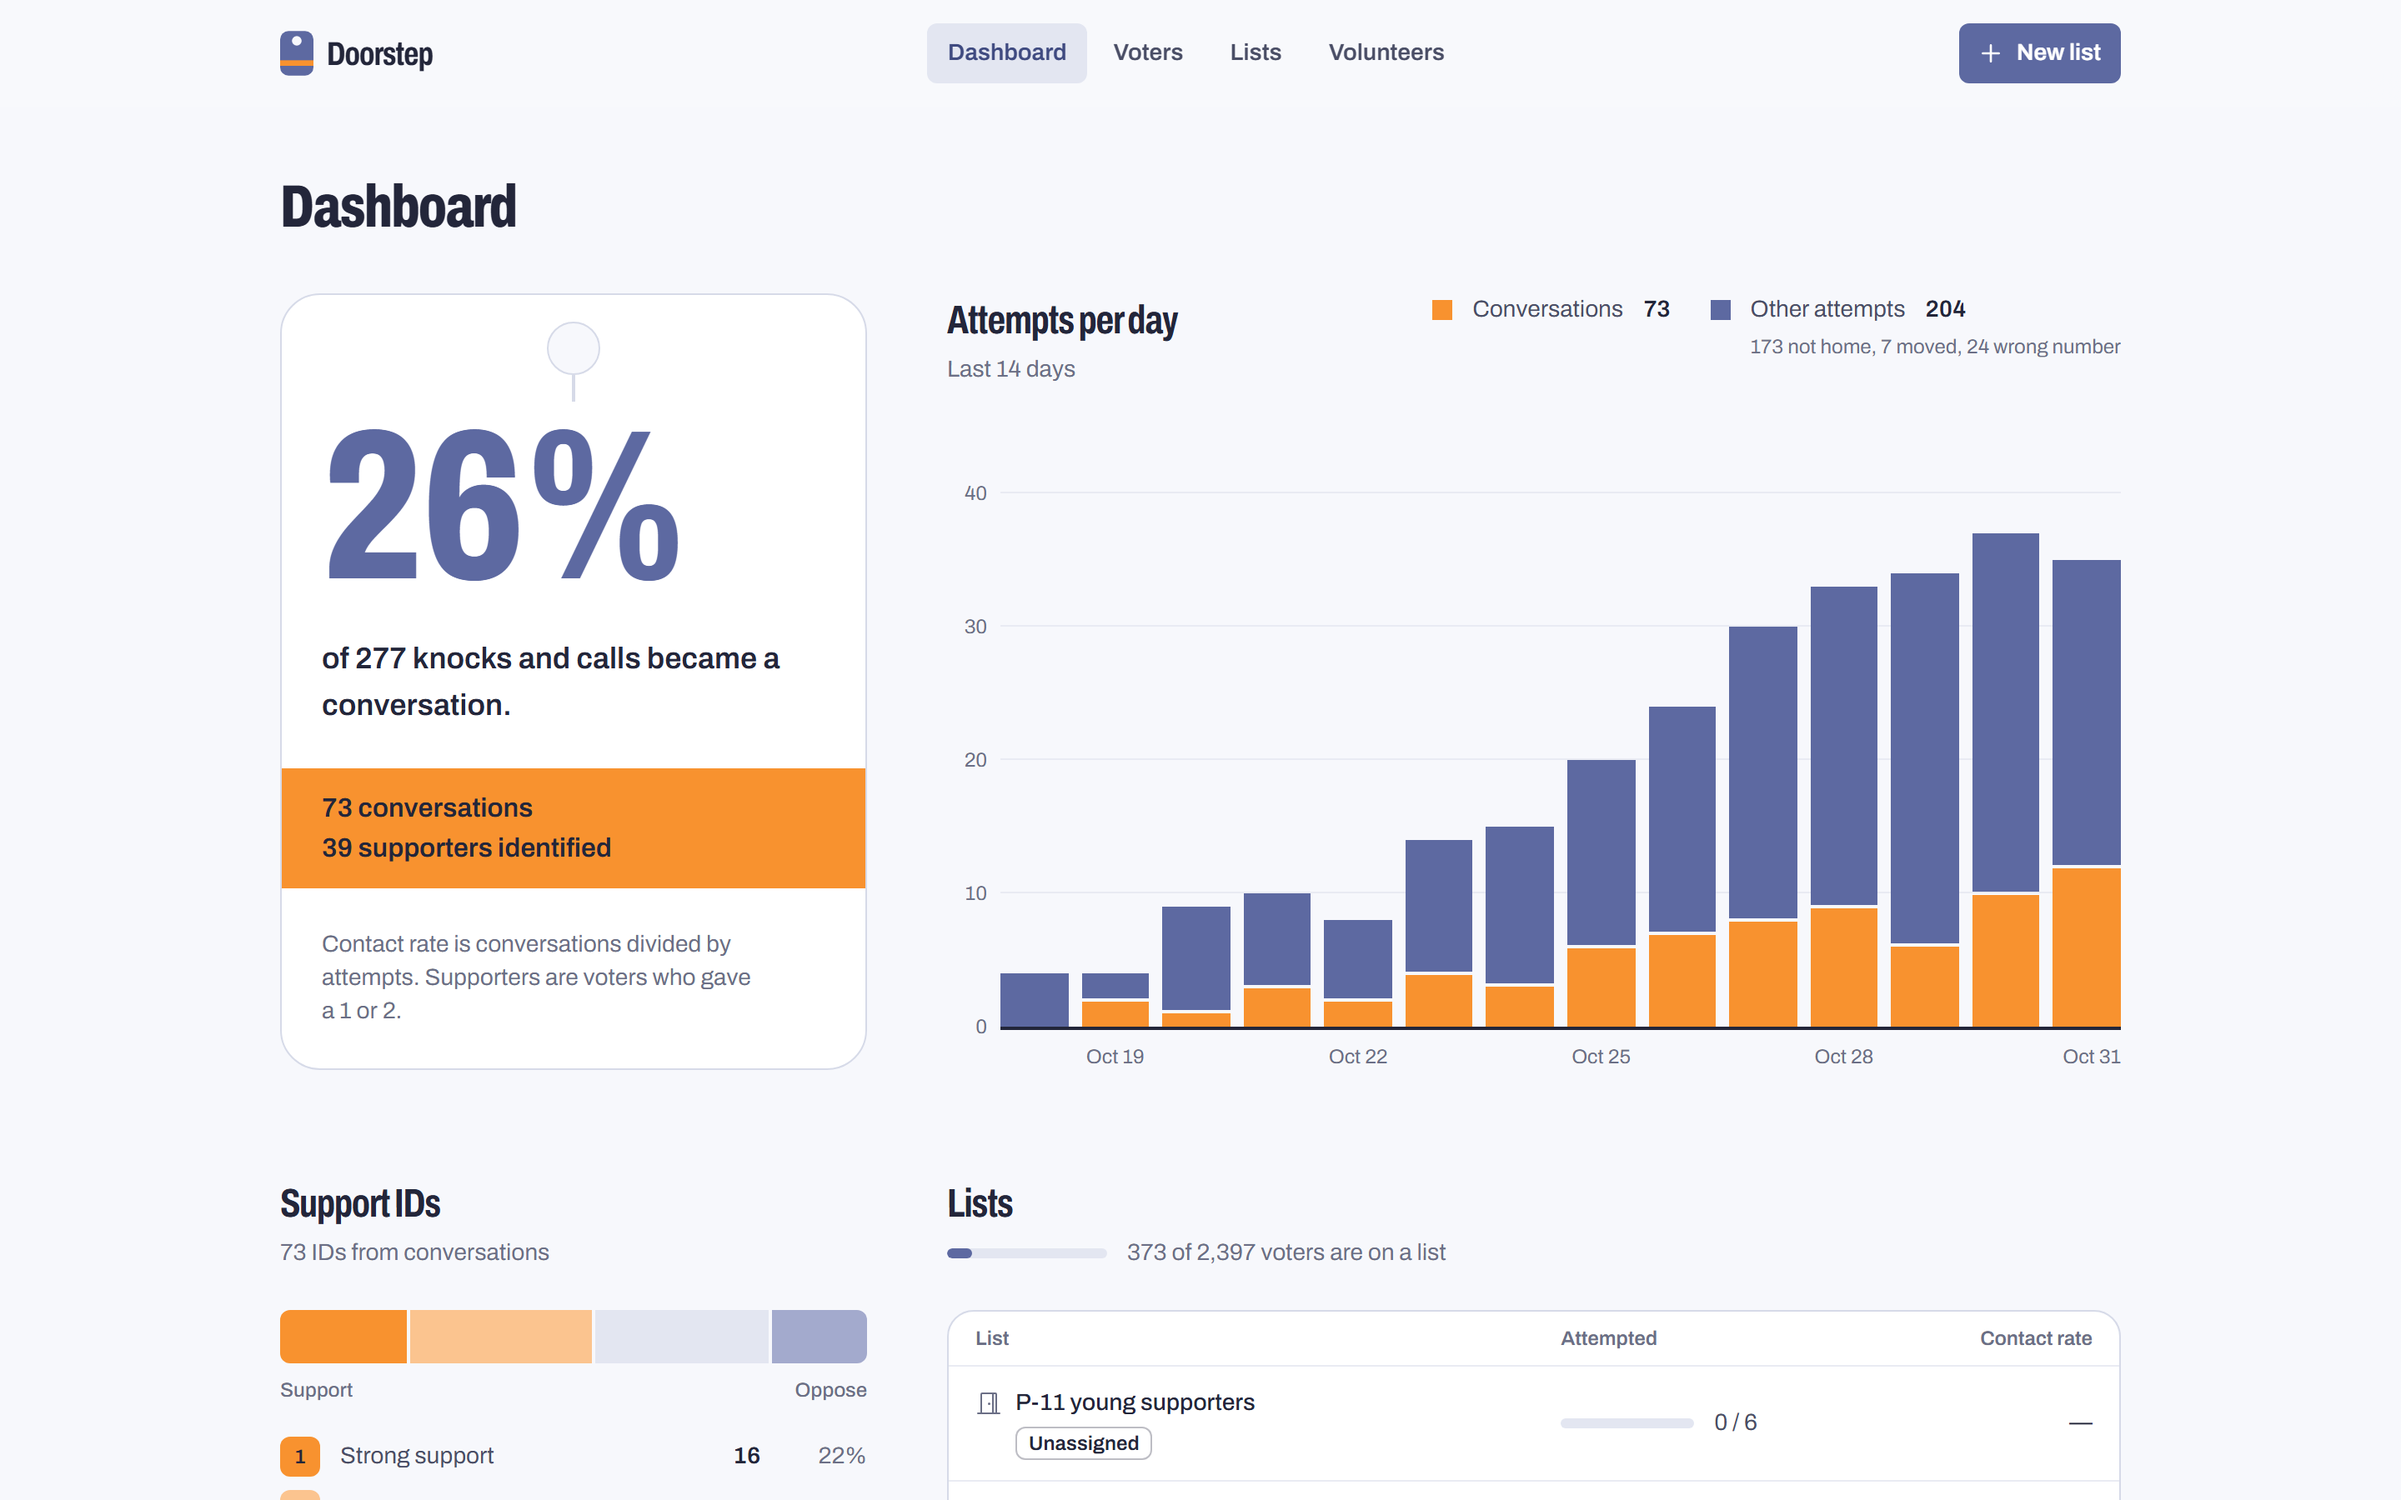
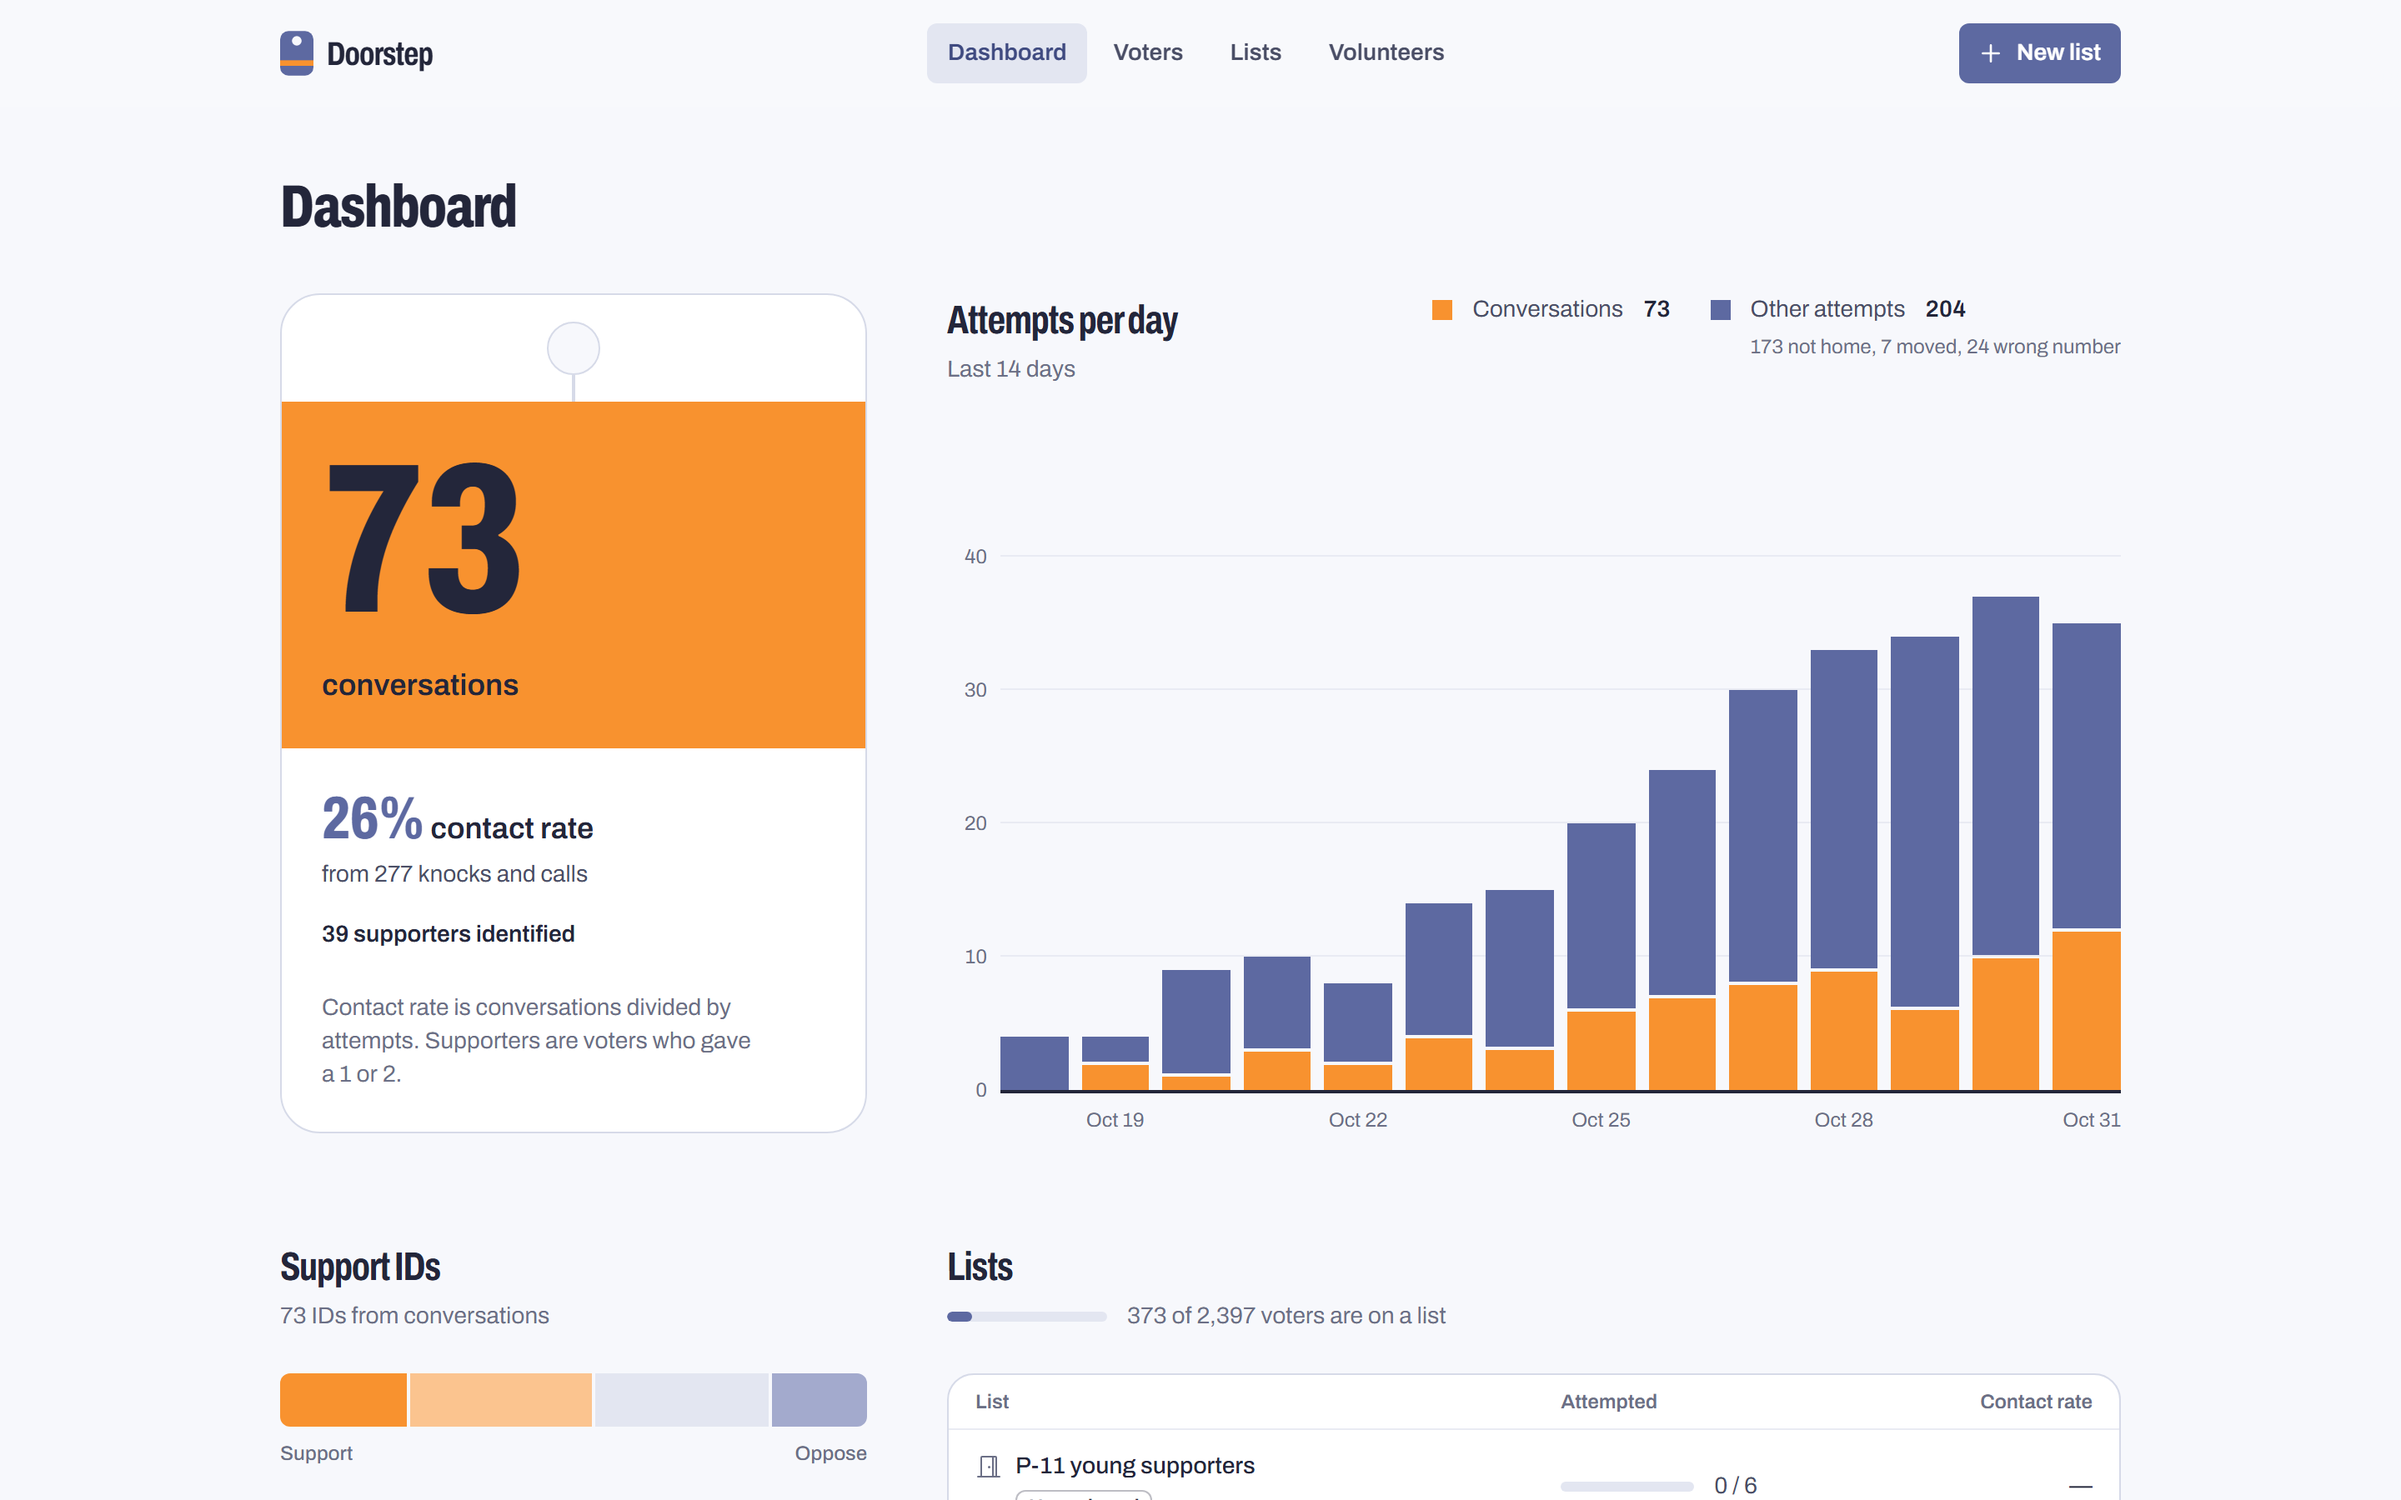
Lead the dashboard with conversations
Field organizers count conversations first, so the dashboard's hanger
now prints the conversation count as its big figure, on orange, the
conversation ink. The contact rate is the supporting line under it, with
the attempts it came from and the supporters identified. The dashboard
and canvass skeletons match, and the intro page's dashboard image is
recaptured.

diff --git a/src/app/(app)/dashboard/page.tsx b/src/app/(app)/dashboard/page.tsx
@@ -66,7 +66,7 @@ async function Dashboard() {
   return (
     <div className="flex min-w-0 flex-col gap-12 lg:gap-16">
       <div className="grid grid-cols-[minmax(0,1fr)] gap-12 md:grid-cols-[18rem_minmax(0,1fr)] lg:grid-cols-[22rem_minmax(0,1fr)]">
-        <ContactRate totals={totals} />
+        <Conversations totals={totals} />
 
         <section aria-labelledby="dashboard-attempts" className="flex min-w-0 flex-col justify-between gap-8">
           <div className="flex flex-wrap items-start justify-between gap-x-8 gap-y-4">
@@ -223,10 +223,14 @@ async function Dashboard() {
  * The one loud thing: the contact rate printed on a door hanger, in indigo, with the
  * conversations on an orange band underneath, the way the real hanger prints its message.
  */
-function ContactRate({ totals }: { totals: Totals }) {
+/**
+ * The hanger at the top of the dashboard: conversations first, because that is the number a
+ * field organizer reports, printed on orange, the conversation ink. The contact rate supports it.
+ */
+function Conversations({ totals }: { totals: Totals }) {
   return (
-    <section aria-label="Contact rate" className="min-w-0">
-      <Hanger className="@container flex h-full flex-col pb-6">
+    <section aria-label="Conversations" className="min-w-0">
+      <Hanger className="@container flex h-full flex-col overflow-hidden pb-6">
         {totals.attempts === 0 ? (
           <div className="px-6">
             <h2 className="heading-4">No attempts yet</h2>
@@ -239,19 +243,18 @@ function ContactRate({ totals }: { totals: Totals }) {
           </div>
         ) : (
           <>
-            <p className="px-6">
-              {/* 128px once the hanger is wide enough for "100%", 96px on narrow hangers. */}
-              <span className="block figure text-8xl text-indigo @[21rem]:text-9xl">
-                {formatPercent(rate(totals.conversations, totals.attempts))}
-              </span>
-              <span className="mt-3 block title-2">
-                of {plural(totals.attempts, "knock or call", "knocks and calls")} became a conversation.
-              </span>
+            <p className="bg-orange px-6 pt-5 pb-6 text-ink">
+              {/* 128px once the hanger is wide enough for four digits, 96px on narrow hangers. */}
+              <span className="block figure text-8xl @[21rem]:text-9xl">{formatNumber(totals.conversations)}</span>
+              <span className="mt-2 block title-2">{totals.conversations === 1 ? "conversation" : "conversations"}</span>
             </p>
-            <p className="mt-6 bg-orange px-6 py-3 title-3 text-ink">
-              <span className="block">{plural(totals.conversations, "conversation", "conversations")}</span>
-              <span className="block">{plural(totals.supporters, "supporter", "supporters")} identified</span>
-            </p>
+            <div className="mt-6 grid gap-1 px-6">
+              <p className="title-2">
+                <span className="figure text-4xl text-indigo">{formatPercent(rate(totals.conversations, totals.attempts))}</span> contact rate
+              </p>
+              <p className="body-6 text-ink-2">from {plural(totals.attempts, "knock or call", "knocks and calls")}</p>
+              <p className="mt-3 body-4">{plural(totals.supporters, "supporter", "supporters")} identified</p>
+            </div>
           </>
         )}
         <p className="mt-auto px-6 pt-6 caption-2 text-muted">

diff --git a/src/components/skeletons.tsx b/src/components/skeletons.tsx
@@ -53,16 +53,18 @@ export function TableSkeleton({ rows = 8, label = "Loading" }: { rows?: number; 
 }
 
 
-// Matches the dashboard: the hanger beside the daily chart, support and lists, then precinct tags.
+// Matches the dashboard: the conversations hanger beside the daily chart, support and lists, then precinct tags.
 export function DashboardSkeleton() {
   return (
     <Loading label="Loading the dashboard">
       <div className="mb-12 grid grid-cols-[minmax(0,1fr)] gap-12 md:grid-cols-[18rem_minmax(0,1fr)] lg:grid-cols-[22rem_minmax(0,1fr)]">
-        <div className="relative h-[29rem] rounded-3xl border border-line bg-paper">
-          <span className="absolute top-4 left-1/2 size-8 -translate-x-1/2 rounded-full border border-line bg-stock" />
-          <div className="px-6 pt-20">
-            <Bone className="mb-4 h-24 w-40" />
+        <div className="relative h-[29rem] overflow-hidden rounded-3xl border border-line bg-paper pt-16">
+          <HangerTop />
+          <div className="h-48 bg-orange" />
+          <div className="grid gap-2 px-6 pt-6">
+            <Bone className="h-9 w-40" />
             <Bone className="h-4 w-48" />
+            <Bone className="mt-3 h-4 w-44" />
           </div>
         </div>
         <div>
@@ -179,7 +181,7 @@ export function CanvassSkeleton() {
   return (
     <Loading label="Loading the next voter">
       <div className="mx-auto max-w-md">
-        <div className="flex h-11 items-center justify-between gap-4">
+        <div className="flex h-8 items-center justify-between gap-4">
           <Bone className="h-4 w-32" />
           <Bone className="h-5 w-28" />
         </div>
